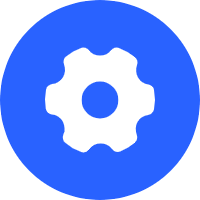
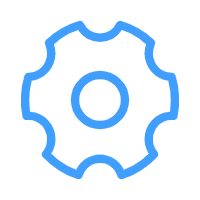
添加置顶

diff --git a/AvaloniaSample/ViewModels/MainWindowViewModel.cs b/AvaloniaSample/ViewModels/MainWindowViewModel.cs
@@ -1,6 +1,10 @@
-using AvaloniaSample.Models;
+using Avalonia.Interactivity;
+using AvaloniaSample.Events;
+using AvaloniaSample.Models;
 using AvaloniaSample.Services;
 using Prism.Commands;
+using Prism.Events;
+using ReactiveUI;
 using System;
 using System.Collections.Generic;
 using System.Collections.ObjectModel;
@@ -14,11 +18,39 @@ namespace AvaloniaSample.ViewModels
     {
         public SettingsViewModel SettingsViewModel { get; }
         public UserOperateViewModel UserOperateViewModel { get; }
+        private readonly ISettings _settings;
+        private readonly IEventAggregator _eventAggregator;
 
-        public MainWindowViewModel(SettingsViewModel settingsViewModel, UserOperateViewModel userOperateViewModel)
+        private bool currentTopmost;
+        public bool CurrentTopmost
+        {
+            get => currentTopmost;
+            set
+            {
+                this.RaiseAndSetIfChanged(ref currentTopmost, value);
+                ChangeWindowTopmostHandler();
+            }
+        }
+
+        public MainWindowViewModel(SettingsViewModel settingsViewModel, UserOperateViewModel userOperateViewModel, ISettings settings, IEventAggregator eventAggregator)
         {
             SettingsViewModel = settingsViewModel;
             UserOperateViewModel = userOperateViewModel;
+            _settings = settings;
+            _eventAggregator = eventAggregator;
+            Init();
+        }
+
+        private void Init()
+        {
+            CurrentTopmost = _settings.Topmost;
+        }
+
+        public void ChangeWindowTopmostHandler()
+        {
+            _eventAggregator.GetEvent<ChangeWindowTopmostEvent>().Publish(CurrentTopmost);
+            _settings.Topmost = CurrentTopmost;
+            _settings.Save();
         }
     }
 }

diff --git a/AvaloniaSample/Views/MainWindow.axaml.cs b/AvaloniaSample/Views/MainWindow.axaml.cs
@@ -2,6 +2,7 @@
 using Avalonia.Controls.ApplicationLifetimes;
 using Avalonia.Input;
 using Avalonia.Interactivity;
+using Avalonia.Platform;
 using AvaloniaSample.Events;
 using AvaloniaSample.Models;
 using AvaloniaSample.ViewModels;
@@ -144,6 +145,15 @@ namespace AvaloniaSample.Views
             if (e.GetCurrentPoint(this).Properties.IsLeftButtonPressed)
             {
                 BeginMoveDrag(e);
+            }
+        }
+
+        private void ImageSwitchToggle_Click(object? sender, RoutedEventArgs e)
+        {
+            if (DataContext is MainWindowViewModel vm)
+            {
+                var button = sender as ToggleButton;
+                vm.CurrentTopmost = button?.IsChecked ?? false;
             }
         }
     }
